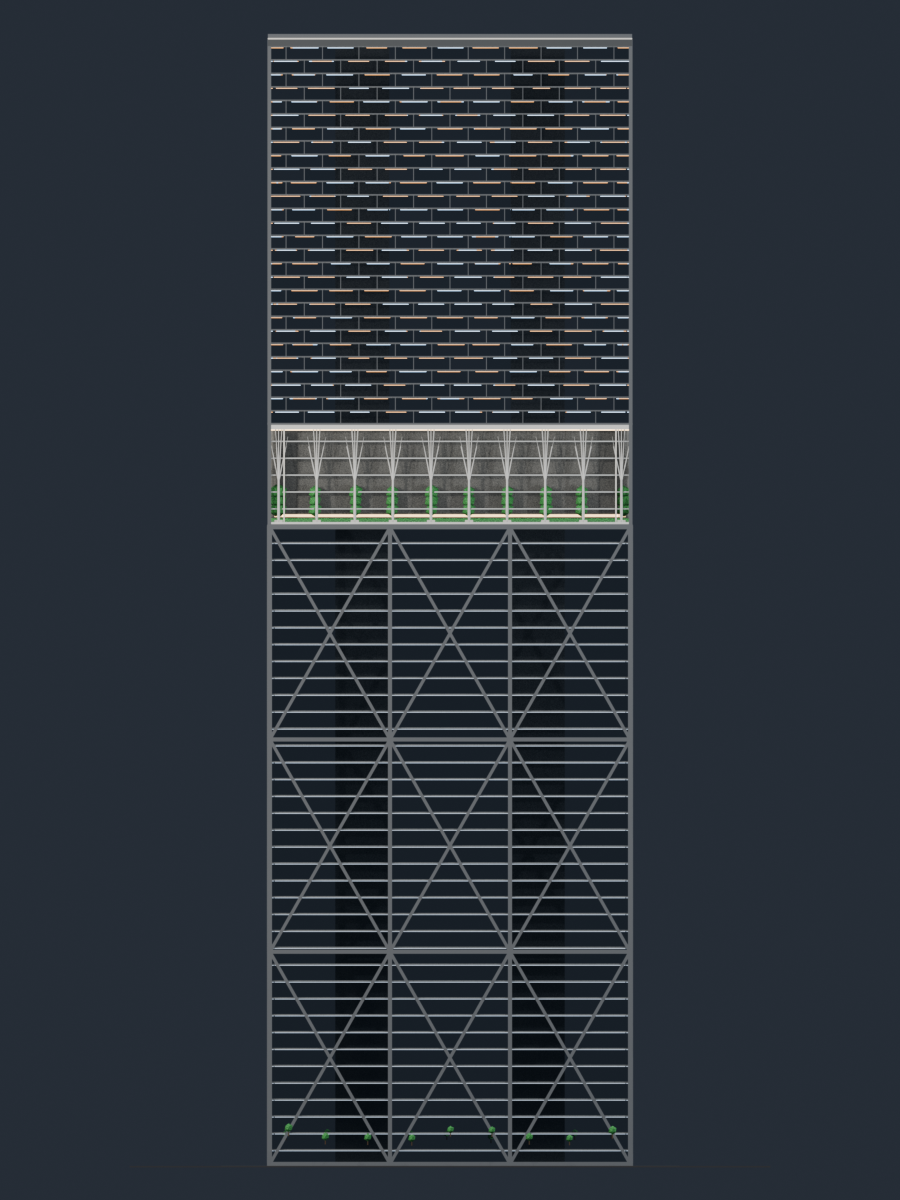
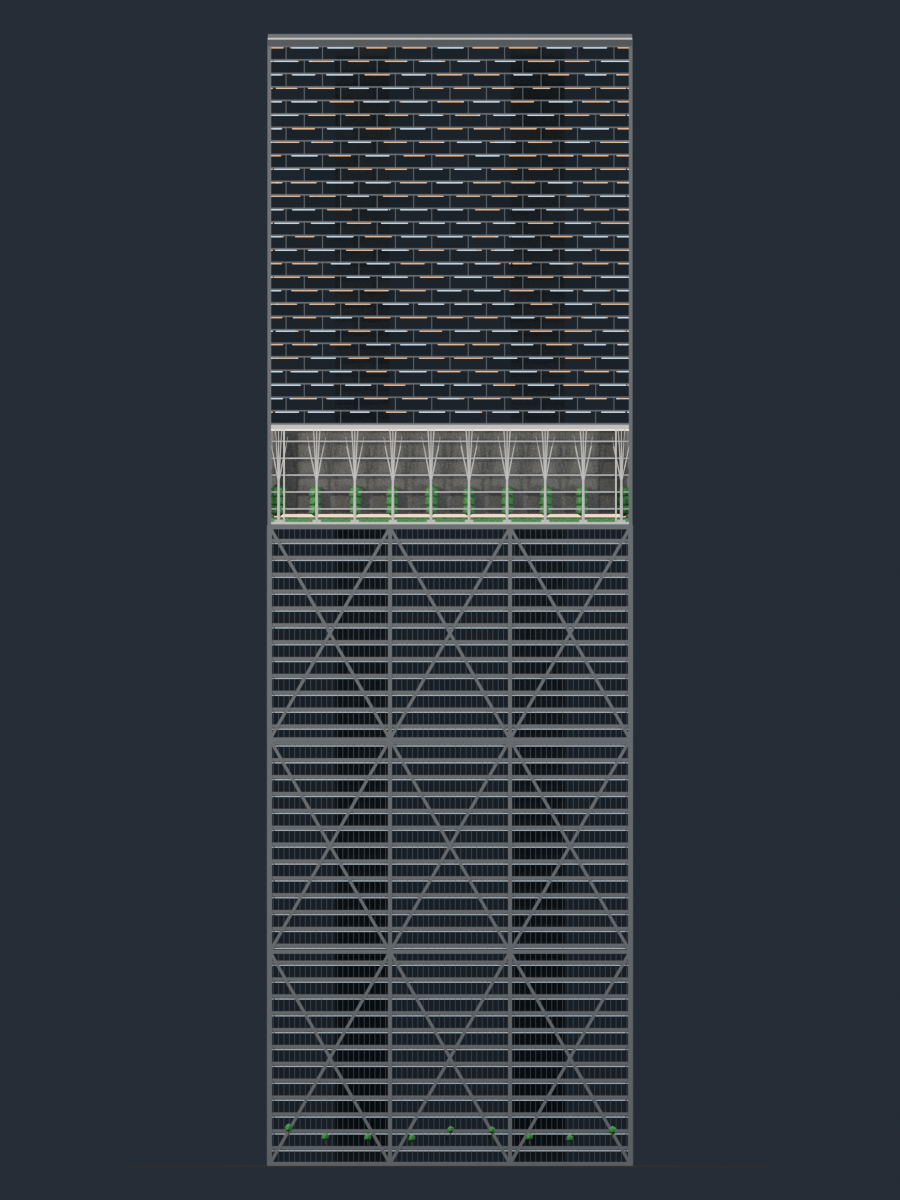
feat: put a vertical curtain wall behind the Stack 3 lattice
The lower block read as a blank dark sheet. It now has the office glazing
from the reference: narrow panes between 1.6 m mullions, a white spandrel
band on every 5 m floor, with the big X frame still standing proud of it.

Changed region(s): [[0.28, 0.4317, 0.7156, 0.9558]]

diff --git a/build_stack3.py b/build_stack3.py
@@ -435,6 +435,27 @@ def build_lattice(mats, cols):
         glass.face_box(face, -half, half, z0 + 0.2, z1 - 0.2, -0.55, 0.14)
     glass.finish()
 
+    # A real curtain wall behind the big frame: narrow vertical panes between
+    # thin mullions, with a white spandrel band on every floor - the office
+    # glazing in the reference the client sent.
+    mull = Part("Lattice_Mullions", mats["silver"], col)
+    for face in FACES:
+        half = face_half(face)
+        n = max(8, int(round(2 * half / 1.6)))
+        step = 2 * half / n
+        for i in range(n + 1):
+            u = -half + i * step
+            mull.face_box(face, u - 0.055, u + 0.055, z0, z1, -0.40, 0.13)
+    mull.finish()
+
+    band = Part("Lattice_Spandrels", mats["silver"], col)
+    for face in FACES:
+        half = face_half(face)
+        for z in [0.0] + [lev for lev in floor_levels() if lev < z1 - 0.5]:
+            band.face_box(face, -half, half, z + 0.02, z + 0.92,
+                          -0.38, 0.30)
+    band.finish()
+
     inset = 0.62
     frame = Part("Lattice_Frame", mats["silver"], col)
     for face in FACES:

diff --git a/README.md b/README.md
@@ -245,8 +245,9 @@ module and run 28 floors.
 - **Lattice, 0-190 m.** The whole lower block is one facade: a bold external frame
   three bays wide by three tiers tall, with an X brace in every cell and glass
   behind it - three crosses per row, three rows, after the reference tower the
-  client pointed at. A warm lit hall sits behind the lower part, cool floors
-  above; one ceiling strip per 5 m storey.
+  client pointed at. Behind the frame sits a real vertical curtain wall: narrow
+  panes between 1.6 m mullions with a white spandrel band on every 5 m floor, a
+  warm lit hall behind the lower floors and cool floors above.
 - **Plaza, 190-220 m.** A planted arcade of branching tree columns.
 - **Apartments, 220-334 m.** A semi-transparent glazed skin drawn as a staggered
   block grid: every bay is one 4 m storey of glass, laid in a half-bond running
